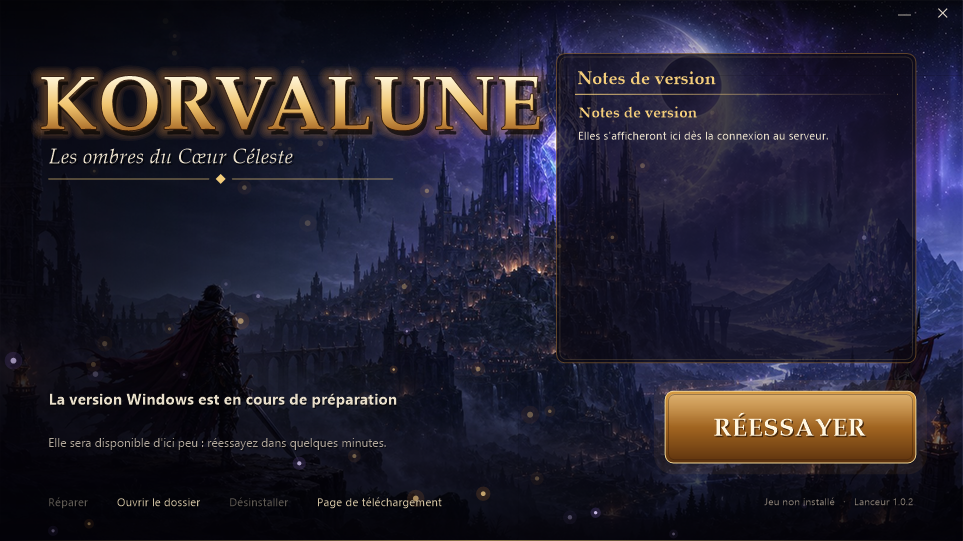
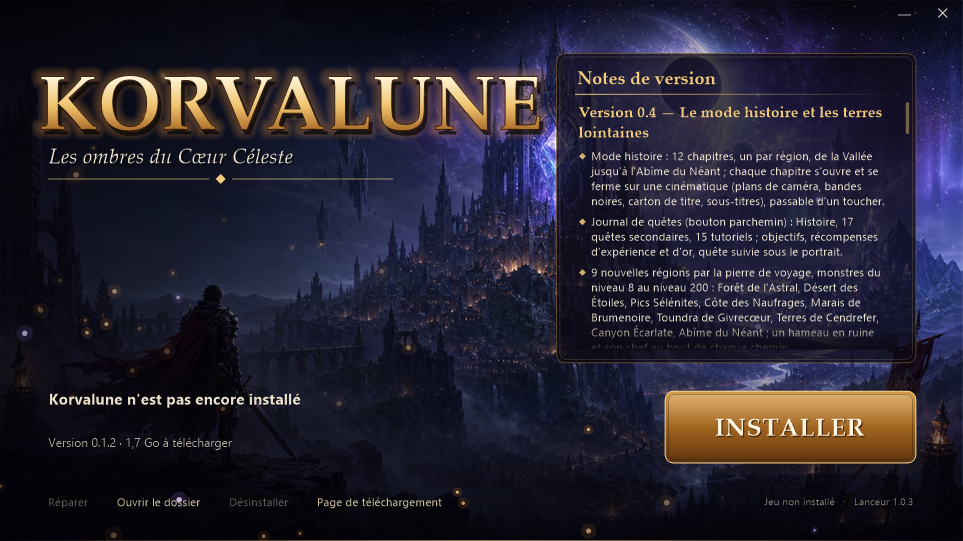
Lanceur Windows : captures [skip ci]

diff --git a/ci-out/lanceur/resultat.md b/ci-out/lanceur/resultat.md
@@ -1,1 +1,1 @@
-Lanceur 1.0.2 construit
+Lanceur 1.0.3 construit
